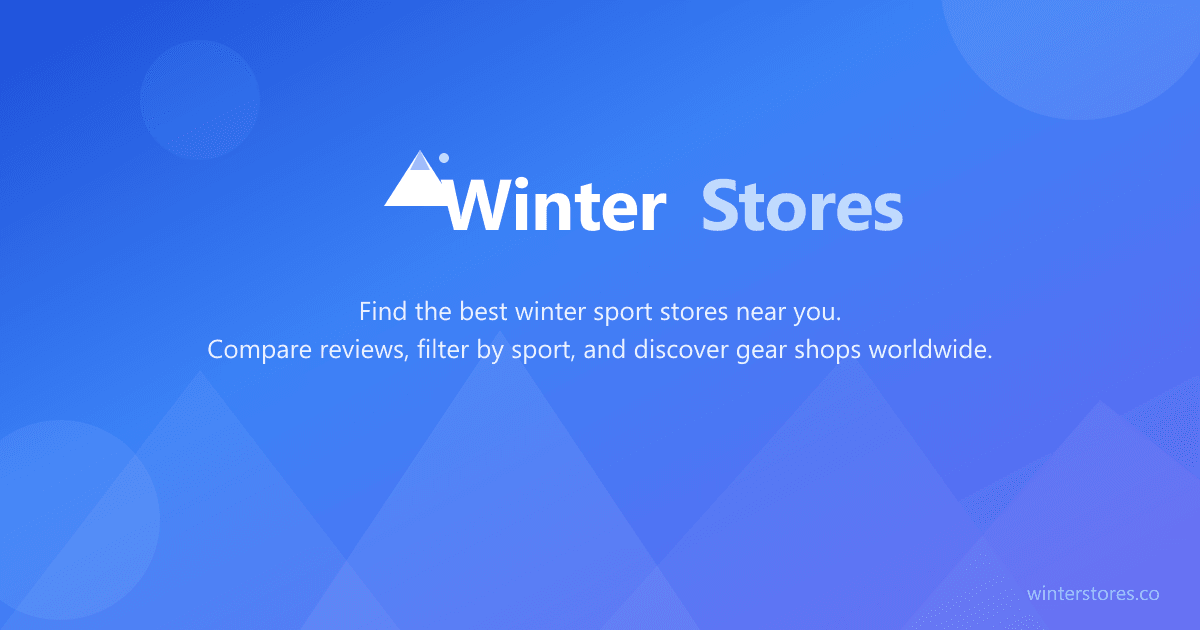
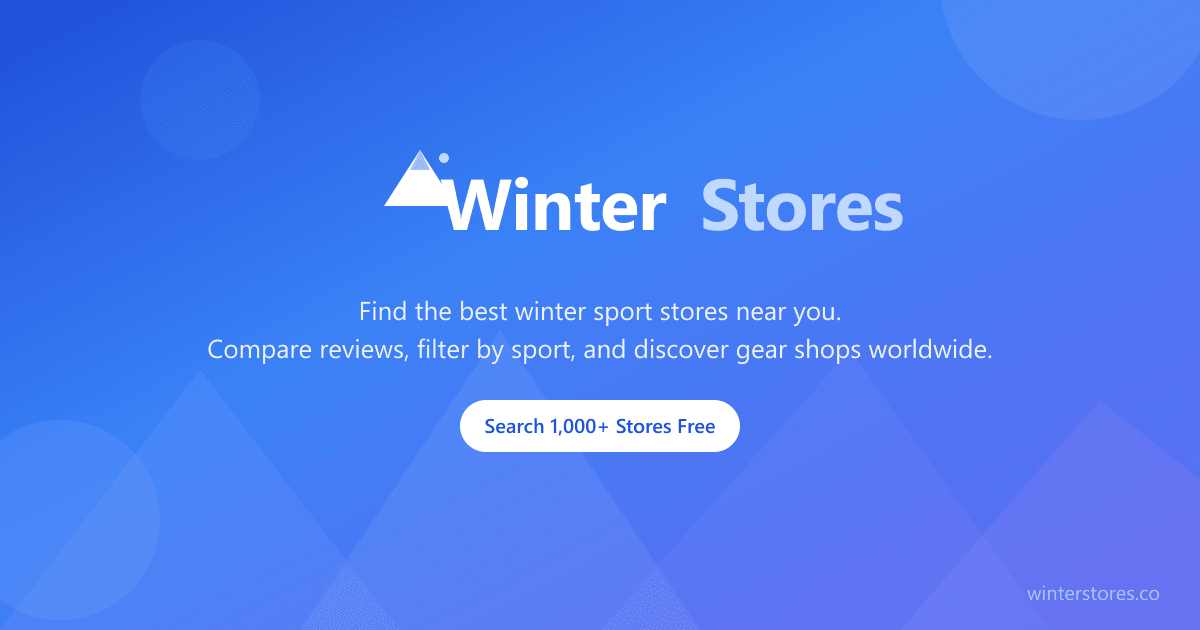
Improve OG metadata and add launch prep docs
- Regenerate og-default.png with CTA button ("Search 1,000+ Stores Free")
- Lengthen OG/Twitter title to 57 chars (optimal 50-60)
- Lengthen OG/Twitter description to 164 chars (optimal 110-160)
- Add LAUNCH.md with Product Hunt listing, Reddit posts, and checklist

Changed region(s): [[0.37, 0.6333, 0.6167, 0.7238], [0.9558, 0.6333, 1.0, 0.7238], [0.1542, 0.181, 0.2158, 0.2413]]

diff --git a/src/app/layout.tsx b/src/app/layout.tsx
@@ -39,18 +39,18 @@ export const metadata: Metadata = {
     type: "website",
     locale: "en_US",
     siteName: "WinterStores",
-    title: "WinterStores — Find Winter Sport Shops Near You",
+    title: "WinterStores — Find & Compare Winter Sport Shops Near You",
     description:
-      "Discover and compare winter sport stores worldwide. Filter by sport, distance, and services.",
+      "Discover and compare 1,000+ winter sport stores across 21 countries. Aggregated ratings from Google, Facebook, and Foursquare. Filter by sport, services, and price.",
     images: [
       { url: "/og-default.png", width: 1200, height: 630, alt: "WinterStores" },
     ],
   },
   twitter: {
     card: "summary_large_image",
-    title: "WinterStores — Find Winter Sport Shops Near You",
+    title: "WinterStores — Find & Compare Winter Sport Shops Near You",
     description:
-      "Discover and compare winter sport stores worldwide. Filter by sport, distance, and services.",
+      "Discover and compare 1,000+ winter sport stores across 21 countries. Aggregated ratings from Google, Facebook, and Foursquare. Filter by sport, services, and price.",
     images: ["/og-default.png"],
   },
   icons: {

diff --git a/LAUNCH.md b/LAUNCH.md
@@ -1,0 +1,157 @@
+# WinterStores Launch Plan
+
+## Product Hunt
+
+### Tagline (56 chars)
+Find and compare the best winter sport stores worldwide
+
+### Short Description
+WinterStores is a free directory of ski shops, snowboard stores, and winter gear retailers across 21 countries. We aggregate ratings from Google, Facebook, and Foursquare into a single score so you can compare shops at a glance. Filter by sport type, services (rentals, boot fitting, repairs), price level, and location. Community-powered — anyone can suggest a store or leave a review.
+
+### Detailed Description (About section)
+I couldn't find a single place to look up and compare winter sport stores near ski resorts. Google Maps shows you pins, but you can't filter by sport type, compare ratings across platforms, or see which shops offer boot fitting vs. rentals.
+
+So I built WinterStores — a free, community-powered directory covering 1,100+ stores across 21 countries. Each store gets a WinterStores Score that aggregates Google, Facebook, and Foursquare ratings. You can filter by skiing, snowboarding, cross-country, ice skating, and more.
+
+This is the first version and I'd love your feedback. What's missing? What would make this useful for your next ski trip?
+
+### Maker Comment (post immediately after launch)
+Hey everyone! I'm the maker of WinterStores.
+
+This started as a personal frustration — every time I planned a ski trip, I'd spend ages Googling rental shops, cross-referencing reviews on Google vs. TripAdvisor vs. Facebook, and still not knowing which ones actually had decent boot fitting.
+
+So I built a directory that pulls it all together. Right now it covers 1,100+ stores in 21 countries with aggregated ratings, sport type filters, and service tags (rentals, repairs, waxing, etc.).
+
+This is very much a v1 — I'd love to hear:
+- Are there stores or regions missing that you'd want to see?
+- What filters or features would be most useful?
+- Any ski resorts where you struggled to find good shops?
+
+You can also suggest stores directly on the site. Thanks for checking it out!
+
+### Topics
+Travel, Sports, Community, Directory
+
+### Gallery Screenshots (1270x760, retake from live site)
+
+| Order | Page | URL | What it shows |
+|-------|------|-----|---------------|
+| 1 | Homepage hero | winterstores.co | Search bar, tagline, sport type pills |
+| 2 | Search results | winterstores.co/search?q=zermatt | Filters sidebar, store cards with ratings, map |
+| 3 | Store detail | winterstores.co/store/christy-sports-vail | Aggregated rating, About, Google rating, details sidebar, online shop CTA |
+| 4 | Browse by Country | winterstores.co/browse | 21 countries grid with store counts |
+| 5 | Guide article | winterstores.co/guides/how-to-choose-ski-rental-shop | Table of contents, content, breadcrumbs |
+
+Tips for retaking:
+- Use a clean browser (incognito, no extensions)
+- Dismiss the cookie banner first
+- Window size: 1270x760
+- Lead with the hero screenshot — it's the thumbnail
+
+---
+
+## Reddit Posts
+
+### r/skiing
+
+**Title:** I built a free directory to find and compare ski shops near any resort — would love your feedback
+
+**Body:**
+Hey r/skiing — I got tired of the Google Maps guessing game every time I needed to find a rental shop or get my boots fitted somewhere new. So I built [WinterStores](https://winterstores.co) — a free directory of 1,100+ winter sport stores across 21 countries.
+
+Each store has an aggregated rating from Google, Facebook, and Foursquare, and you can filter by services (rentals, boot fitting, repairs, waxing), sport type, and price level.
+
+This is the first version and I know there are gaps. I'd really appreciate it if you:
+- Check if your local shop or favorite resort-area store is listed
+- [Suggest a store](https://winterstores.co/suggest) if it's missing
+- Tell me what would make this actually useful for you
+
+No ads, no paywalls, no sign-up required. Just trying to build something the community finds helpful.
+
+### r/snowboarding
+
+**Title:** I built a free directory to find and compare snowboard shops near any resort — would love your feedback
+
+**Body:**
+Hey r/snowboarding — I got tired of the Google Maps guessing game every time I needed to find a rental shop or get my boots fitted somewhere new. So I built [WinterStores](https://winterstores.co) — a free directory of 1,100+ winter sport stores across 21 countries.
+
+Each store has an aggregated rating from Google, Facebook, and Foursquare, and you can filter by services (rentals, boot fitting, repairs, waxing), sport type, and price level.
+
+This is the first version and I know there are gaps. I'd really appreciate it if you:
+- Check if your local shop or favorite resort-area store is listed
+- [Suggest a store](https://winterstores.co/suggest) if it's missing
+- Tell me what would make this actually useful for you
+
+No ads, no paywalls, no sign-up required. Just trying to build something the community finds helpful.
+
+### r/SideProject
+
+**Title:** I built WinterStores — a free directory to find and compare winter sport shops worldwide
+
+**Body:**
+Been working on this side project for a while and it's finally at a point where I'd love feedback.
+
+[WinterStores](https://winterstores.co) is a directory of 1,100+ ski/snowboard/winter sport stores across 21 countries. It aggregates ratings from Google, Facebook, and Foursquare into a single score, and lets you filter by sport type, services, and price level.
+
+**Stack:** Next.js 16, Supabase, Tailwind CSS, Vercel
+
+**What I'd love feedback on:**
+- UX/design — does it feel intuitive?
+- Missing features you'd expect from a directory
+- SEO or performance suggestions
+
+Happy to answer any questions about the build!
+
+### r/indiehackers
+
+**Title:** Launched v1 of WinterStores — a niche directory for winter sport shops. Here's what I learned building it.
+
+**Body:**
+Just shipped the first version of [WinterStores](https://winterstores.co), a free directory of 1,100+ winter sport stores in 21 countries.
+
+**The problem:** There's no good way to find and compare ski/snowboard shops near a resort. You end up on Google Maps clicking through individual listings, cross-referencing reviews on different platforms.
+
+**What it does:** Aggregates ratings from Google, Facebook, and Foursquare. Filter by sport type, services (rentals, boot fitting, repairs), and price level. Anyone can suggest a store.
+
+**The build:** Next.js + Supabase + Vercel. Built a discovery pipeline that finds stores near ski resorts via Google Places and Foursquare APIs, with quality gates to filter out hotels and restaurants.
+
+**Monetization plan:** Adsterra ads for now, affiliate rental CTAs next, AdSense once traffic grows.
+
+**What I'm looking for:** Feedback on the product, ideas for growth in a seasonal niche, and whether this kind of directory has legs.
+
+Would love to hear your thoughts!
+
+---
+
+## Launch Checklist
+
+### Pre-launch
+- [ ] Retake 5 gallery screenshots from live site at 1270x760 (clean browser, no cookie banner)
+- [ ] Create/update Product Hunt maker profile (photo + bio)
+- [ ] Verify OG image works: paste winterstores.co into opengraph.xyz or Twitter Card Validator
+- [ ] Pick launch day: Tuesday, Wednesday, or Thursday
+
+### Product Hunt — launch day
+- [ ] Schedule launch for 12:01 AM PT (maximizes upvote window)
+- [ ] Fill in listing: name, tagline, link, descriptions, gallery, topics
+- [ ] Publish and immediately post the Maker Comment
+- [ ] Share PH link on personal social media and relevant Discord/Slack groups
+
+### Reddit — same day or day after
+- [ ] Post to r/skiing first (largest audience)
+- [ ] Post to r/snowboarding 2-3 hours later
+- [ ] Post to r/SideProject same day
+- [ ] Post to r/indiehackers the next day
+- [ ] Respond to every comment — engagement matters
+
+### Post-launch (first 48 hours)
+- [ ] Monitor and reply to all PH comments
+- [ ] Monitor and reply to all Reddit comments
+- [ ] Check Vercel Analytics for traffic spikes
+- [ ] Track store suggestions and feature requests
+- [ ] Fix any bugs that surface same-day
+
+### Timing tips
+- Best PH days: Tuesday, Wednesday, Thursday
+- Best Reddit timing: Weekday mornings US time
+- Don't cross-post on Reddit — write each post individually
